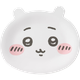
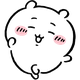
fix : 호버 커서를 사진에서 일러스트로 교체
- 표정 변화용으로 상품 사진을 쓰던 것을 일러스트로 바꿈
- 원형 배지 일러스트에서 원 바깥과 흰 원을 벗겨 캐릭터만 남김
- 마스크 원을 줄여 색 테두리가 남지 않도록 처리

diff --git a/scripts/cursor.py b/scripts/cursor.py
@@ -16,13 +16,12 @@ SOURCE = Path("public/images/characters")
 SIZE = 40
 UA = "Mozilla/5.0 (Macintosh; Intel Mac OS X 10_15_7) AppleWebKit/537.36 Chrome/124 Safari/537.36"
 
-# 표정이 다른 얼굴. 치이카와파크 얼굴 접시 상품으로, 얼굴만 나오고 배경이 희다.
+# 표정이 다른 일러스트. 원 안에 캐릭터가 들어간 배지 모양이라 원 바깥과 흰 원을 벗겨 쓴다.
 HOVER_FACE = {
-    "chiikawa": "4571609367710_1",
-    "hachiware": "4571609367727_1",
-    "usagi": "4571609367734_1",
+    "chiikawa": "https://chiikawa-biyori.com/wp-content/uploads/2026/07/chiikawa.png",
+    "hachiware": "https://chiikawa-biyori.com/wp-content/uploads/2026/04/hachiware.png",
+    "usagi": "https://chiikawa-biyori.com/wp-content/uploads/2026/04/usagi.png",
 }
-SHOP_CDN = "https://cdn.shopify.com/s/files/1/0626/7142/1681/files"
 
 # 극장판 일러스트에서 머리만 남기는 비율. 아래쪽 풀잎 목도리를 잘라 낸다.
 HEAD_RATIO = 0.74
@@ -60,11 +59,30 @@ def build_default(slug: str) -> None:
 
 
 def build_hover(slug: str) -> None:
-    url = f"{SHOP_CDN}/{HOVER_FACE[slug]}.jpg"
-    request = urllib.request.Request(url, headers={"User-Agent": UA})
+    """원형 배지 일러스트에서 원 바깥과 흰 원을 벗겨 캐릭터만 남긴다."""
+    request = urllib.request.Request(HOVER_FACE[slug], headers={"User-Agent": UA})
     with urllib.request.urlopen(request, timeout=30) as response:
-        photo = Image.open(response)
-    save(to_square(strip_background(photo)), f"{slug}-hover")
+        badge = Image.open(response).convert("RGBA")
+
+    width, height = badge.size
+    # 모서리에서 번지게 하면 배경에 그러데이션이 있을 때 색이 남는다. 원 바깥을 통째로 지운다.
+    # 원을 조금 줄여야 흰 원과 색 배경 사이의 테두리까지 함께 사라진다.
+    edge = round(min(width, height) * 0.045)
+    mask = Image.new("L", (width, height), 0)
+    ImageDraw.Draw(mask).ellipse((edge, edge, width - 1 - edge, height - 1 - edge), fill=255)
+    badge.putalpha(mask)
+
+    # 원 안쪽 가장자리에서 번지면 캐릭터 윤곽에서 멈춰 흰 원만 지워진다.
+    inset = round(min(width, height) * 0.08)
+    for point in (
+        (width // 2, inset),
+        (inset, height // 2),
+        (width - inset, height // 2),
+        (width // 2, height - inset),
+    ):
+        ImageDraw.floodfill(badge, point, (0, 0, 0, 0), thresh=FLOOD_TOLERANCE)
+
+    save(to_square(badge), f"{slug}-hover")
 
 
 def main() -> None:

diff --git a/README.md b/README.md
@@ -42,9 +42,12 @@ pnpm scrape   # 치이카와 마켓 신상 굿즈 갱신
 
 ## 커서
 
-`scripts/cursor.py` 가 캐릭터 얼굴로 커서 이미지를 만든다. 기본 커서는 극장판 일러스트의 얼굴,
-누를 수 있는 곳 위에서는 표정이 다른 얼굴(치이카와파크 얼굴 접시 상품)로 바뀐다.
+`scripts/cursor.py` 가 캐릭터 얼굴로 커서 이미지를 만든다. 둘 다 일러스트를 쓴다.
+기본은 극장판 일러스트의 얼굴, 누를 수 있는 곳 위에서는 표정이 다른 일러스트로 바뀐다.
+
 배경은 모서리에서 번져 나가는 방식으로 지운다. 색을 통째로 지우면 캐릭터의 흰 부분까지 날아간다.
+표정 변화용 일러스트는 원형 배지라, 원 바깥을 마스크로 지운 뒤 원 안쪽 가장자리에서 번지게 해
+흰 원만 없앤다. 마스크 원을 원본보다 조금 줄여야 색 테두리가 남지 않는다.
 
 커서 캐릭터는 사이드바에서 고르고 브라우저에 저장된다. 고른 값은 `<html data-cursor>` 로 들어가
 CSS 변수만 바꾸므로, 커서를 쓰는 곳이 늘어도 규칙을 한 곳에서 관리한다.
